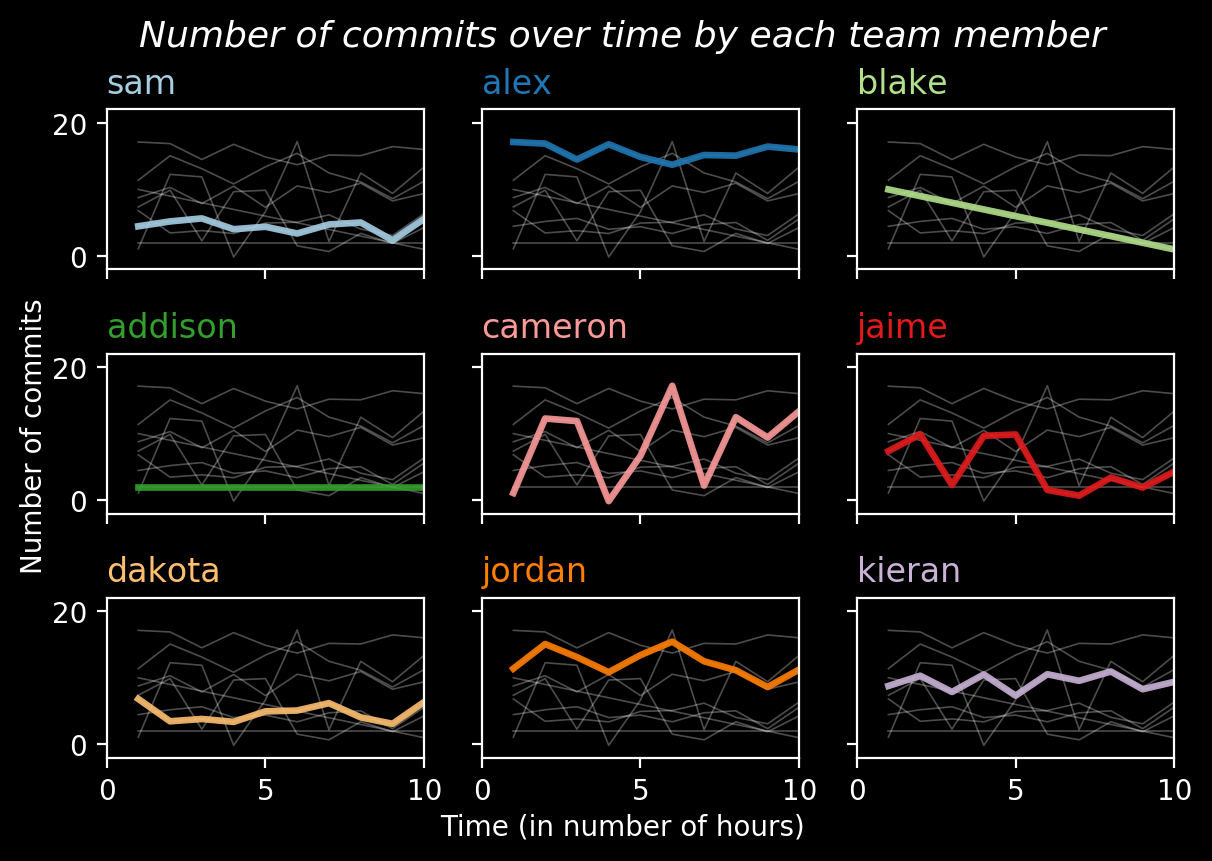
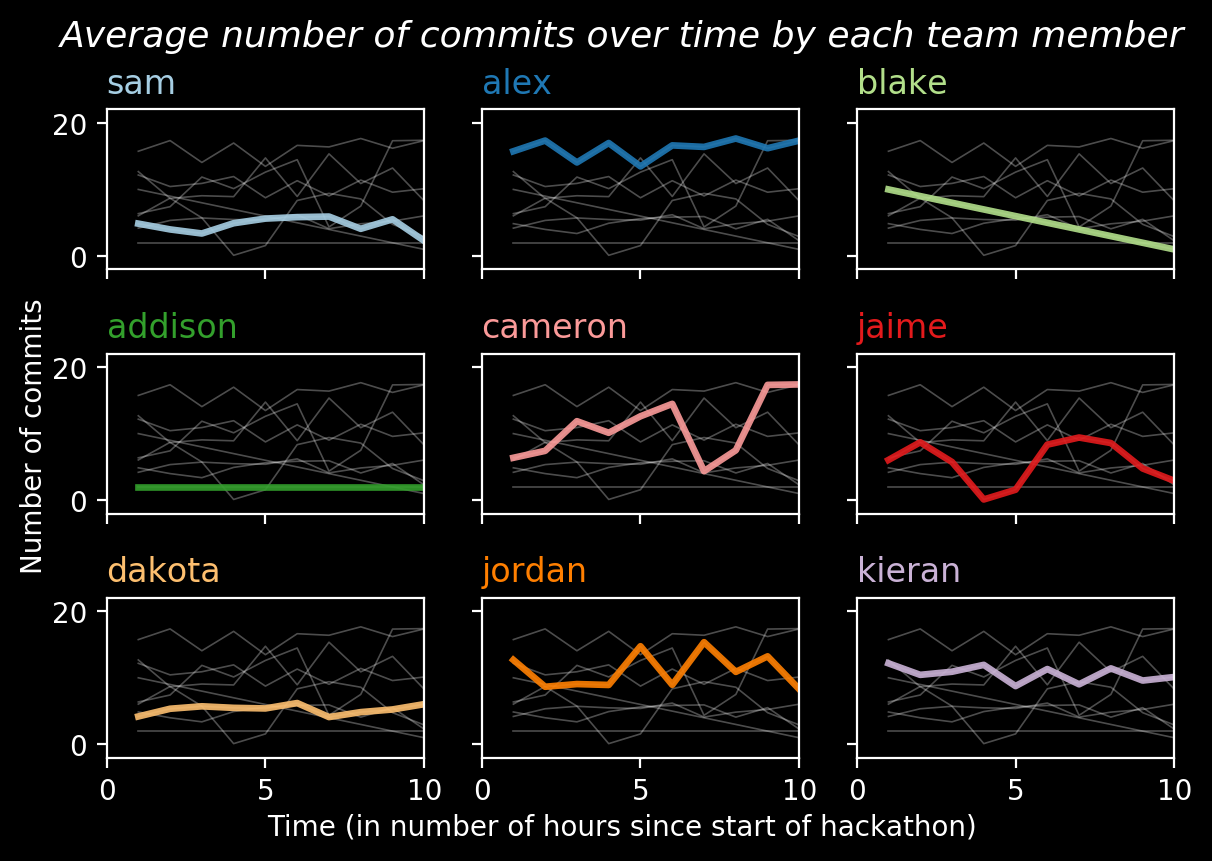
Update example image with appropriate title

diff --git a/small_multiples/README.md b/small_multiples/README.md
@@ -4,7 +4,7 @@
 
 Created by Cristian E. Nuno
 
-Date: July 16, 2019
+Date: July 17, 2019
 
 ![example](../visuals/small_multiples_example.png)
 
